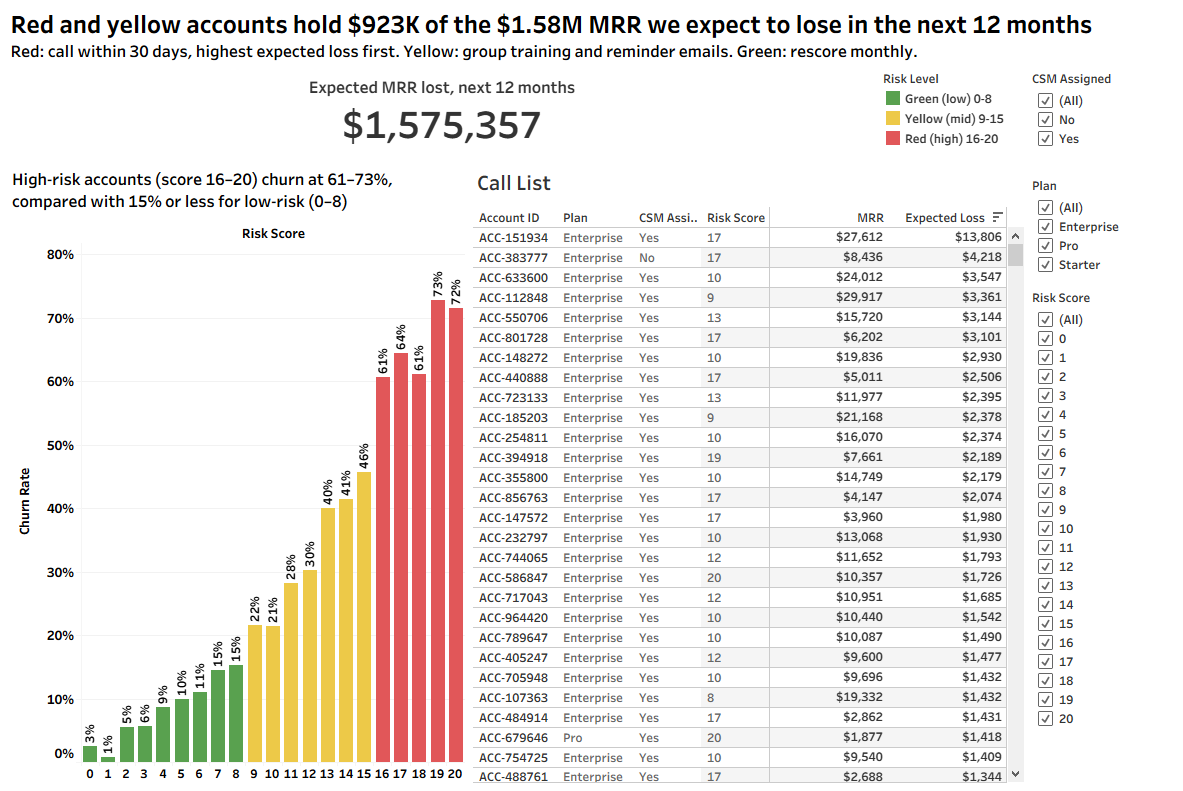
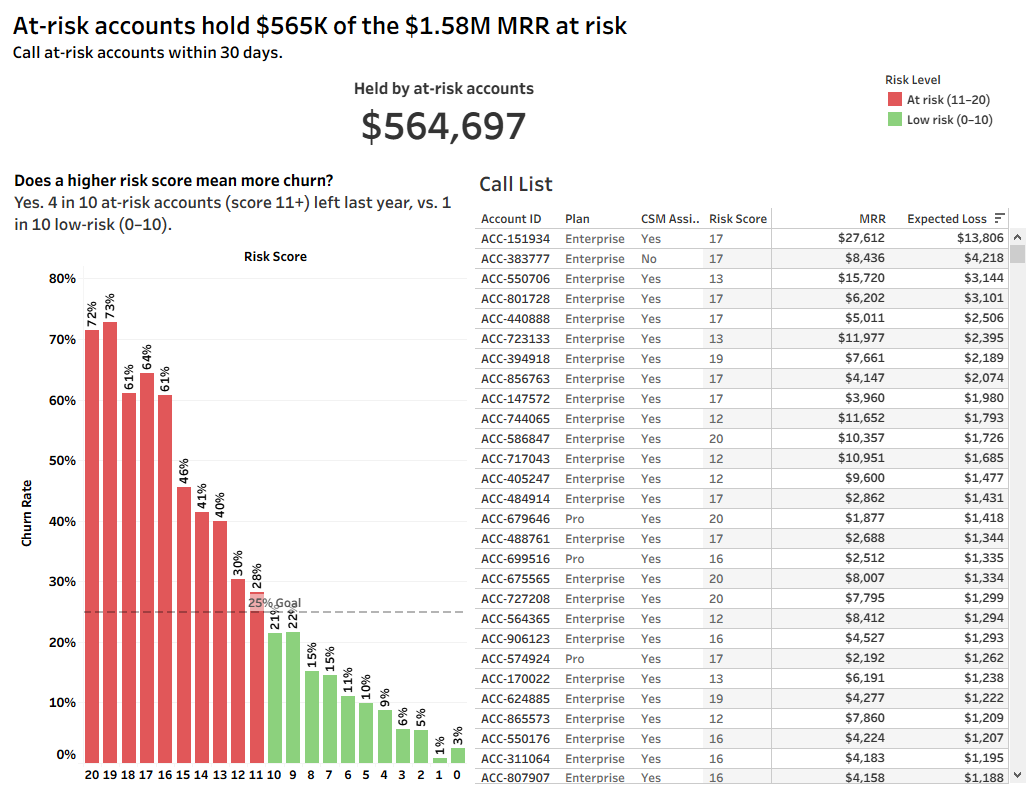
Update churn dashboard image and wording

Changed region(s): [[0.0, 0.2124, 1.0, 1.0], [0.0, 0.0, 0.9622, 0.182]]

diff --git a/src/pages/ChurnAnalysis.jsx b/src/pages/ChurnAnalysis.jsx
@@ -36,7 +36,7 @@ const RECOMMENDATIONS = [
 const CLEANING = [
   '1,137 duplicate rows, all exact copies.',
   <>Inconsistent labels: <code className="font-mono text-sm">Plan</code> had PRO and Pro, <code className="font-mono text-sm">Churned</code> had Yes, Y, TRUE, No, N and FALSE, and <code className="font-mono text-sm">Region</code> had EU and Europe.</>,
-  'Impossible values: NPS scores of -3 and 15 (NPS only goes 0–10), and employee counts of 0, -1 and 99999.',
+  'Impossible values: Net Promoter Score (NPS) survey answers of -3 and 15 (NPS only goes 0–10), and employee counts of 0, -1 and 99999.',
   '614 accounts with more active seats than they bought.',
   'MRR stored as text with $ and commas ("$1,850.40"), plus 768 blanks.',
   'Two date formats in SignupDate (2024-09-18 and 09/18/2024).',
@@ -121,7 +121,7 @@ export default function ChurnAnalysis() {
             format={(n) => `+${n} points`}
             highlight={(_, i) => i === 0}
             labelWidth="12rem"
-            ariaLabel="Risk score points per warning sign: onboarding not completed 4, no training 3, seat use under 60% 3, 31+ days to go live 3, 0 or 1 integrations 2, feature adoption under 50% 2, NPS detractor or no answer 2, escalated ticket 1"
+            ariaLabel="Risk score points per warning sign: onboarding not completed 4, no training 3, seat use under 60% 3, 31+ days to go live 3, 0 or 1 integrations 2, feature adoption under 50% 2, survey score 0–6 or no answer 2, escalated ticket 1"
           />
         </ChartCard>
         <ChartCard
@@ -213,8 +213,8 @@ export default function ChurnAnalysis() {
         <Slide title="Dashboard in Tableau" appendix>
           <DashboardFrame
             src={dashboardImage}
-            alt="Tableau dashboard with expected MRR lost, churn rate by risk score colored green, yellow and red, and every active account ranked by expected loss"
-            caption="The action dashboard: every active account by risk tier, ranked by how much MRR we expect to lose."
+            alt="Tableau dashboard: at-risk accounts hold $565K of the $1.58M MRR at risk, churn rate by risk score with at-risk bars above a 25% goal line, and a call list of at-risk accounts ranked by expected loss"
+            caption="The action dashboard: churn by risk score against the 25% goal, and at-risk accounts ranked by how much MRR we expect to lose."
           />
         </Slide>
 
@@ -293,7 +293,7 @@ export default function ChurnAnalysis() {
 
           <h3 className="mt-8 text-lg font-semibold text-ink">The warning signs</h3>
           <p className="mt-2 text-ink">
-            For each thing the company can influence, I split accounts into "at risk" or not and compared their churn.
+            For each thing the company can influence, I split accounts into those with the sign and those without, and compared their churn.
             The gap is the churn rate with the sign minus without it.
           </p>
           <div className="mt-4 rounded-xl border border-border bg-card p-4 shadow-sm">
@@ -307,7 +307,7 @@ export default function ChurnAnalysis() {
             <p className="mt-3 text-xs text-muted">Churn gap in percentage points for each warning sign. Skipping onboarding is the biggest.</p>
           </div>
           <p className="mt-4 text-ink">
-            Accounts with a CSM churned at 8.2% vs 17.1% without one, but Starter has no CSMs at all and 95% of
+            Accounts with a Customer Success Manager (CSM) churned at 8.2% vs 17.1% without one, but Starter has no CSMs at all and 95% of
             Enterprise accounts have one, so the gap was mostly just plan. Inside Pro it shrinks to 5.4 points.
             Onboarding held up inside every plan: accounts that skipped it churned 3.0x more in Starter, 3.6x in Pro
             and 3.8x in Enterprise.
@@ -329,7 +329,7 @@ export default function ChurnAnalysis() {
           <p className="mt-4 text-ink">
             To set the points, I sorted the signs by gap and split them where the gap jumps. Onboarding gets 4 on its
             own, since the biggest jump in the list is right after it. The three signs around 17 points get 3, the next
-            three get 2, and escalated tickets gets 1. I left out having a Customer Success Manager (CSM), since that
+            three get 2, and escalated tickets gets 1. I left out having a CSM, since that
             mostly just repeats plan.
           </p>
           <CodeBlock caption="T-SQL: risk score" code={SQL_SCORE} />
@@ -346,7 +346,7 @@ export default function ChurnAnalysis() {
             lower-score Enterprise account could put $1,000+ at risk. So inside each tier I ranked accounts by expected
             loss: MRR × churn chance, where the churn chance is last year's churn for accounts with the same plan and
             score. My first version used score only, but Enterprise churns about half as much as the other plans at the
-            same score (28.6% vs 60.7% at score 16), so I was overstating its risk and added plan to the lookup.
+            same score (28.6% vs 60.7% for all plans at score 16), so I was overstating its risk and added plan to the lookup.
           </p>
           <CodeBlock caption="T-SQL: each account's tier and expected loss" code={SQL_TIERS} />
           <DataTable

diff --git a/src/components/Projects.jsx b/src/components/Projects.jsx
@@ -10,7 +10,7 @@ import { projects, practice } from '../data/projects';
 const MEDIA = {
   'customer-churn-analysis': {
     src: churnDashboardImage,
-    alt: 'Tableau dashboard with expected MRR lost, churn rate by risk score in green, yellow and red tiers, and every active account ranked by expected loss',
+    alt: 'Tableau dashboard: at-risk accounts hold $565K of the $1.58M MRR at risk, churn rate by risk score with at-risk bars above a 25% goal line, and a call list of at-risk accounts ranked by expected loss',
   },
   'wa-labor-cost': {
     src: wageChartsImage,
